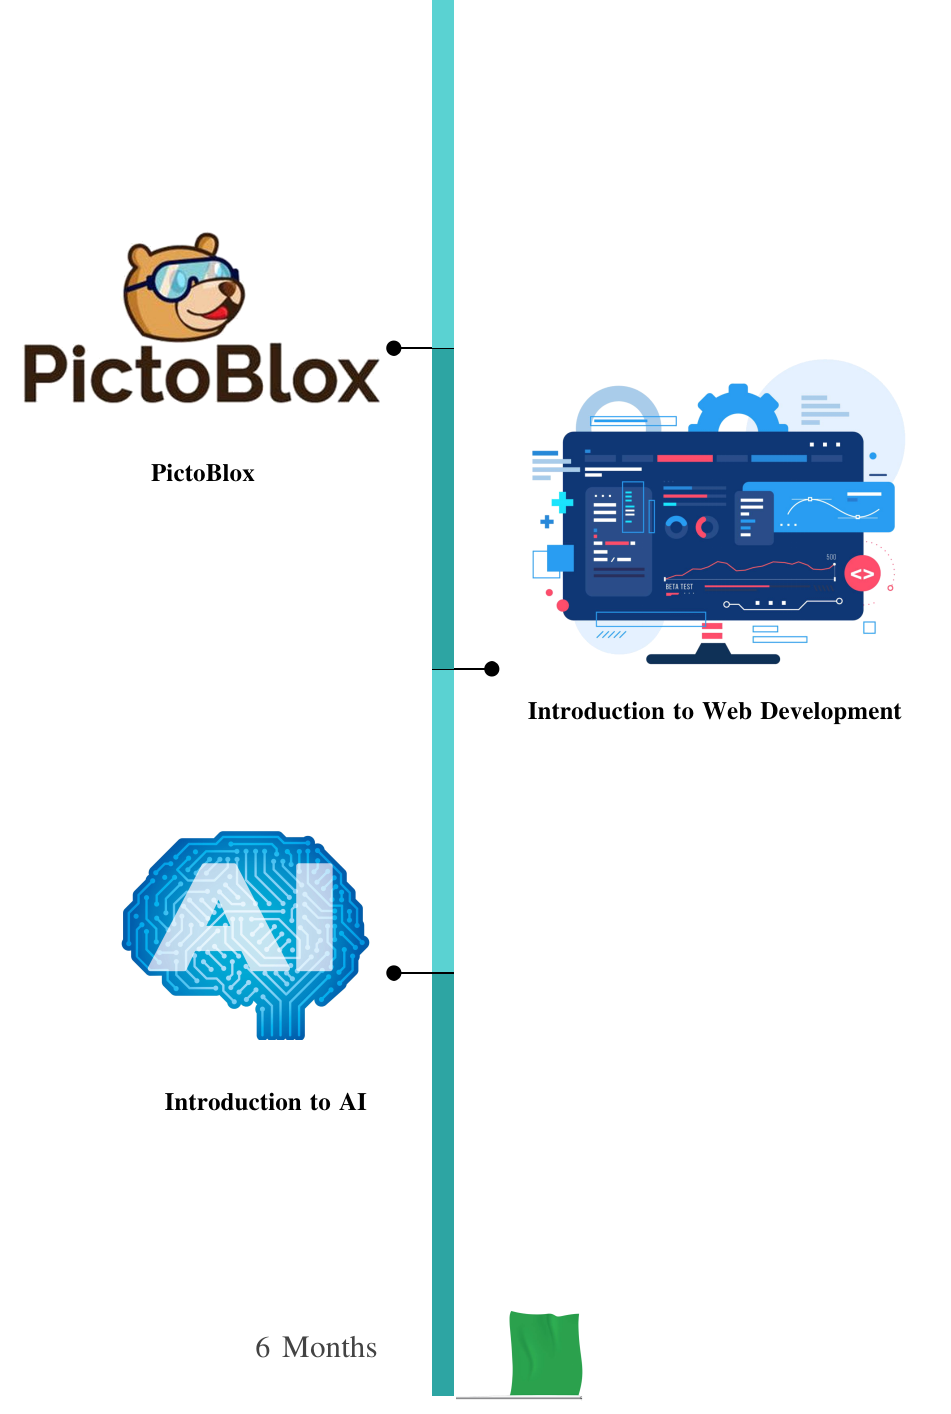
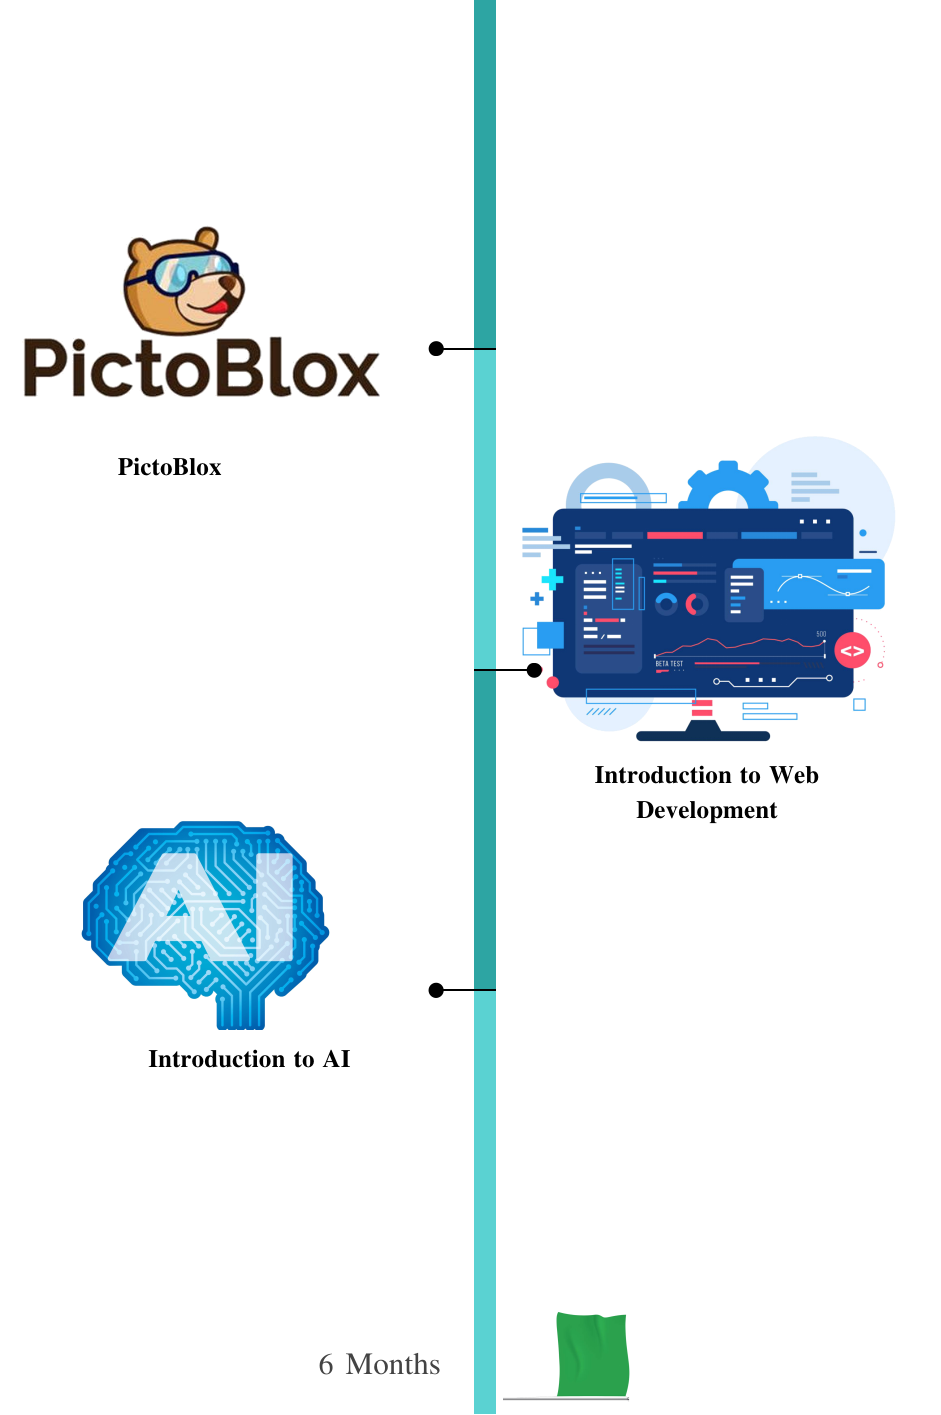
edit Timeline

diff --git a/Services/tech/index.css b/Services/tech/index.css
@@ -228,7 +228,7 @@
     justify-content: center;
 }
 .CourseSection .levelBox.activeBox{
-    display: block;
+    display: flex;
 }
 
 .CourseSection .timelineSmall{
